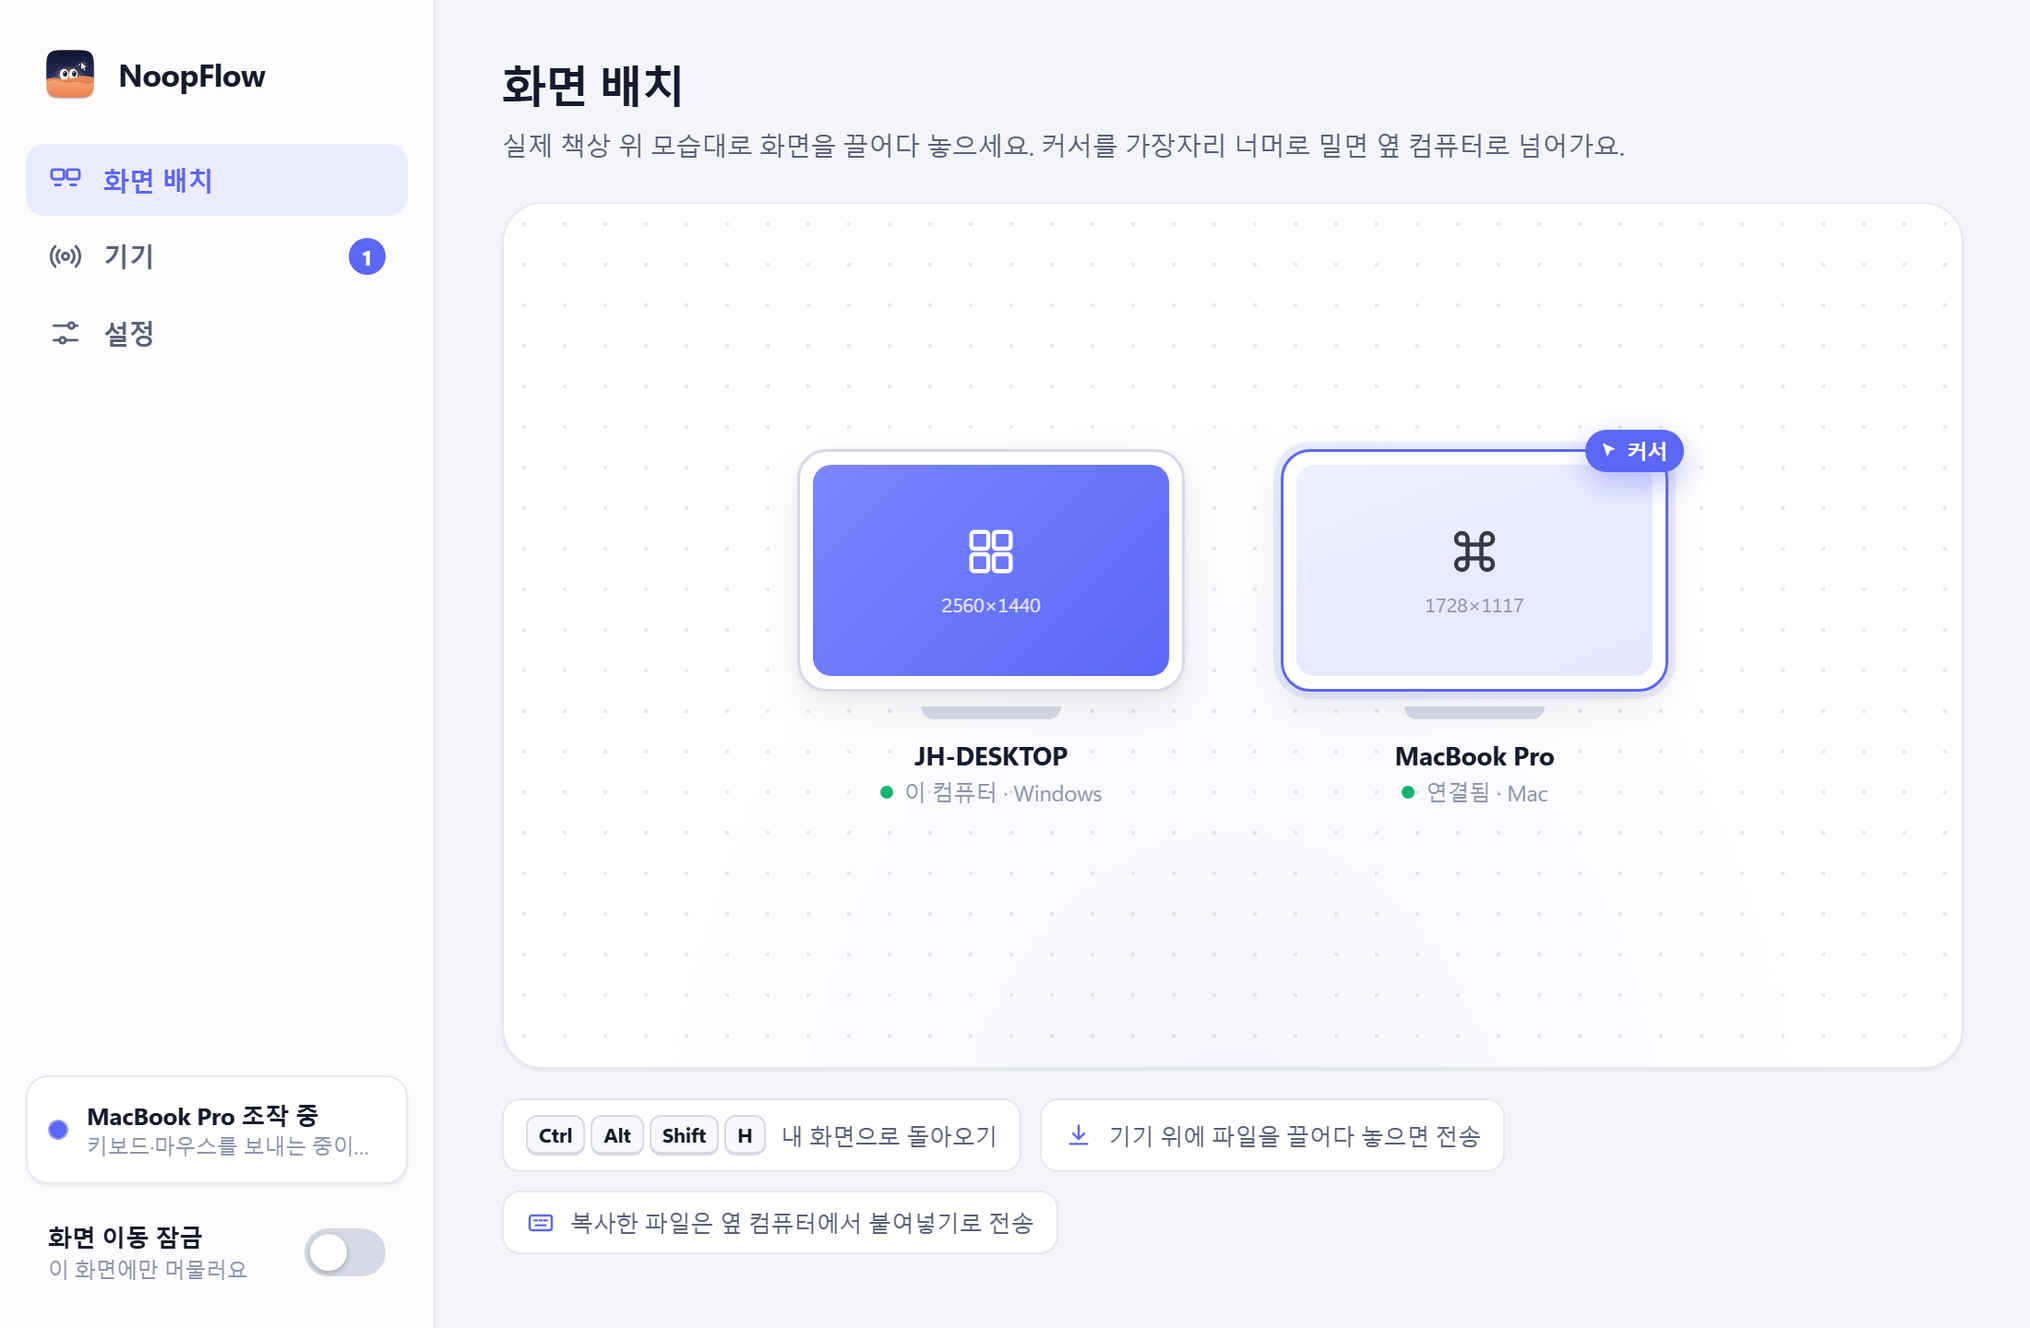
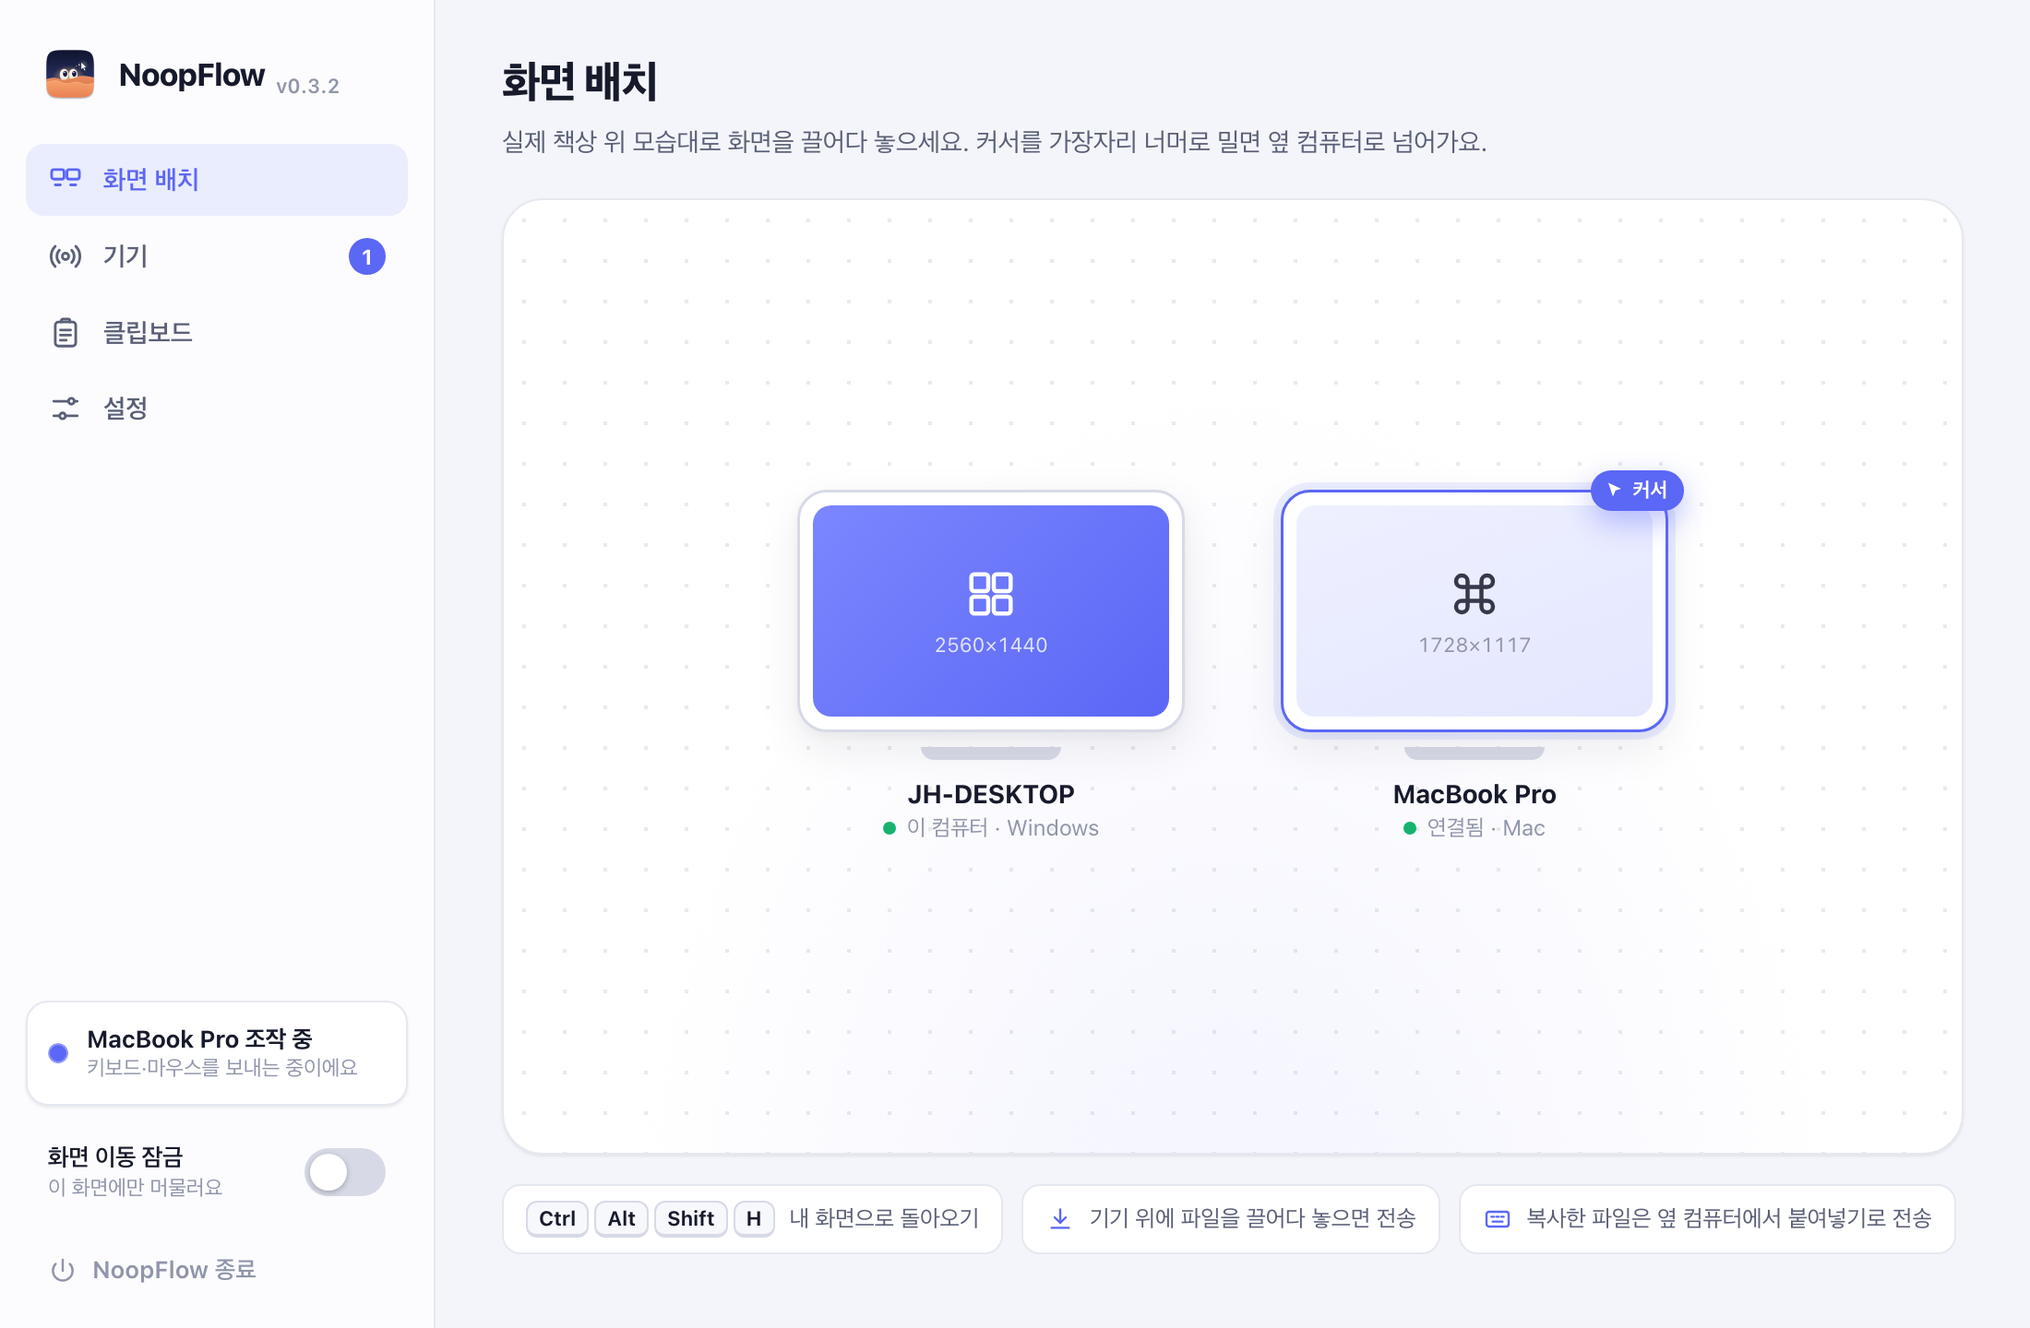
docs: refresh all feature screenshots and revamp README

diff --git a/README.md b/README.md
@@ -6,139 +6,175 @@
 
 <p align="center">
   키보드·마우스 하나로 Windows와 Mac(또는 Windows끼리)을 함께 쓰는 앱이에요.<br />
-  커서를 화면 가장자리 너머로 밀면 옆 컴퓨터로 넘어가요.
+  커서를 화면 가장자리 너머로 밀면 옆 컴퓨터로 자연스럽게 넘어가요.
 </p>
 
 <p align="center">
-  <a href="../../releases/latest"><b>다운로드</b></a> ·
-  <a href="https://github.com/sungomi/NooP">NooP</a> 패밀리
+  <a href="../../releases/latest"><b>최신 버전 다운로드</b></a> ·
+  <a href="#주요-기능">주요 기능</a> ·
+  <a href="#처음-연결하기">처음 연결하기</a> ·
+  <a href="#mac에서-처음-실행할-때">Mac 권한 설정</a> ·
+  <a href="https://github.com/sungomi/NooP">NooP 패밀리</a>
 </p>
 
 <p align="center">
-  <img src="docs/layout-dark.png" width="760" alt="화면 배치" />
+  <img src="docs/layout-dark.png" width="800" alt="NoopFlow 화면 배치 (다크 모드)" />
 </p>
 
-> **상태: v0.1 (초기 버전)**. Windows에서는 빌드하고 실행까지 확인했어요. Mac 버전은 아직 실제 Mac에서 돌려보지 않았어요.
+---
 
 ## 다운로드
 
-[Releases](../../releases) 페이지에서 받으면 돼요.
+[Releases](../../releases/latest) 페이지에서 OS에 맞는 설치 파일을 받으면 돼요.
 
-- Windows: `NoopFlow_x.y.z_x64-setup.exe` (또는 `.msi`)
-- Mac: `NoopFlow_x.y.z_universal.dmg` (Apple Silicon, Intel 모두 지원)
+| OS | 설치 파일 | 비고 |
+| :--- | :--- | :--- |
+| **Windows** | `NoopFlow_x.y.z_x64-setup.exe` (또는 `.msi`) | Windows 10 / 11 (x64) |
+| **macOS** | `NoopFlow_x.y.z_universal.dmg` | Apple Silicon · Intel 모두 지원 (macOS 11+) |
 
-새 버전을 내려면 버전 태그를 push하면 돼요. 그러면 GitHub Actions가 빌드해서 Releases에 자동으로 올려줘요. 평소 push에는 빌드가 돌지 않아요.
+> 두 컴퓨터의 NoopFlow 버전이 같아야 해요 (v0.2.0부터 통신 프로토콜이 바뀌었어요). 버전이 다르면 앱에서 바로 알려줘요.
 
-```bash
-git tag v0.1.1
-git push origin v0.1.1
-```
+---
 
-## 스크린샷
+## 주요 기능
+
+### 1. 화면 배치 & 부드러운 커서 이동
+
+실제 책상 위 모니터 배치대로 기기 카드를 끌어다 놓으면, 커서를 화면 가장자리 너머로 밀었을 때 옆 컴퓨터로 넘어가요.
+
+- **자유로운 배치**: 좌우·위아래 어느 방향이든 배치할 수 있고, 변경하면 연결된 기기에도 바로 동기화돼요.
+- **DPI 배율 보정 & 스무딩**: 125%·150%·Retina 등 화면 배율이 달라도 같은 속도로 부드럽게 움직여요.
+- **화면 이동 잠금 & 즉시 복귀**: 왼쪽 아래 **화면 이동 잠금** 스위치로 현재 화면에 고정하거나, 언제든 `Ctrl + Alt + Shift + H`로 내 화면으로 바로 돌아올 수 있어요.
+- **다크 / 라이트 모드**: 시스템 테마에 맞춰 자동으로 바뀌어요.
+
+| 다크 모드 | 라이트 모드 |
+| :---: | :---: |
+| <img src="docs/layout-dark.png" width="420" alt="화면 배치 다크 모드" /> | <img src="docs/layout-light.png" width="420" alt="화면 배치 라이트 모드" /> |
+
+---
+
+### 2. 자동 기기 검색 & 6자리 코드 암호화 페어링
+
+같은 네트워크(와이파이·LAN)에 켜져 있는 NoopFlow 기기를 자동으로 찾아요. 처음 한 번만 6자리 코드를 입력해 연결하면 이후에는 자동으로 다시 붙어요.
+
+- **종단간 암호화**: 모든 키보드·마우스·클립보드·파일 전송은 **Noise 프로토콜(X25519 + ChaCha20-Poly1305)** 로 암호화돼요.
+- **IP 직접 찾기**: 사내망 등으로 자동 검색이 막혀 있다면 IP 주소를 직접 입력해 찾을 수 있어요.
+- **중복 기기 자동 정리**: 재설치 등으로 같은 기기를 다시 페어링해도 예전 오프라인 항목이 남지 않고 기존 화면 위치를 그대로 이어받아요.
 
 | 기기 연결 | 6자리 코드 페어링 |
 | :---: | :---: |
-| <img src="docs/devices.png" width="400" /> | <img src="docs/pairing.png" width="400" /> |
-| **한/영 전환 설정 (Mac)** | **라이트 모드** |
-| <img src="docs/settings-mac.png" width="400" /> | <img src="docs/layout-light.png" width="400" /> |
+| <img src="docs/devices.png" width="420" alt="기기 연결 탭" /> | <img src="docs/pairing.png" width="420" alt="6자리 코드 페어링" /> |
 
-> 스크린샷은 샘플 데이터로 찍은 화면이에요. `scripts/screenshots.ps1`로 다시 찍을 수 있어요.
+---
 
-## 기능
+### 3. 클립보드 공유 & 파일 전송
 
-- **화면 배치**: 기기 카드를 끌어서 실제 책상 위 위치대로 놓아요 (좌우·위아래 모두 가능).
-- **자동 검색 + 6자리 코드 연결**: 같은 네트워크의 기기를 자동으로 찾아요. 처음 한 번만 코드를 입력하면 돼요.
-- **암호화**: 모든 입력은 Noise 프로토콜(X25519 + ChaCha20-Poly1305)로 암호화돼요. 한 번 연결한 기기만 접속할 수 있어요.
-- **한/영 전환 (Mac)**
-  - 오른쪽 ⌘을 한 번 누르면 한/영이 바뀌어요. ⌘C 같은 단축키는 그대로 써요.
-  - 맥 키보드로 윈도우를 조작할 때도 오른쪽 ⌘으로 윈도우의 한/영이 바뀌어요.
-  - 윈도우 키보드로 맥을 조작할 때는 한/영 키가 그대로 먹혀요.
-  - 영문 키보드라면 오른쪽 Alt로 전환하는 옵션도 있어요.
-- **키 배치 맞춤** (기본: 위치 그대로): 윈도우 키보드로 맥을 조작하면 Alt → ⌘, Windows 키 → ⌥, Ctrl → Ctrl로 바뀌어요. 맥 키보드로 윈도우를 조작하면 그 반대예요. 설정에서 'Ctrl ↔ ⌘'나 '바꾸지 않기'를 고를 수도 있어요.
-- **부드러운 마우스**: 화면 배율(125%·150% 등)이 달라도 같은 속도로 움직여요. 빠른 마우스의 이동 신호는 묶어서 보내요.
-- **클립보드 공유**: 텍스트와 이미지는 자동으로 공유돼요.
-- **클립보드 탭**: 컴퓨터마다 지금 복사된 내용(글자, 이미지 미리보기, 파일 목록)을 보여줘요. 다른 컴퓨터 것을 **이 컴퓨터로 가져오기**하거나(파일이면 다운로드), 내 것을 원하는 컴퓨터로 **보내기**할 수 있어요. 트레이나 메뉴 막대의 '클립보드…'에서도 열 수 있어요.
-- **미디어 키**: 볼륨과 재생 키도 조작 중인 컴퓨터로 넘어가요.
-- **파일 보내기**
-  - 화면 배치에서 기기 카드 위에 파일이나 폴더를 끌어다 놓으면 보내져요.
-  - 파일을 복사(Ctrl/⌘+C)하고 옆 컴퓨터로 넘어가서 붙여넣으면(Ctrl/⌘+V) 파일이 전송되고 폴더가 열려요.
-  - 받은 파일은 `다운로드/NoopFlow`에 저장돼요.
-- **단축키**: `Ctrl+Alt+Shift+H`를 누르면 내 화면으로 바로 돌아와요.
-- **트레이 / 메뉴 막대**
-  - Windows: 창의 X를 누르면 트레이로 최소화돼요. 설정의 '창을 닫을 때'에서 '종료'로 바꿀 수 있어요.
-  - Mac: 창을 닫으면 메뉴 막대에 남아요. 메뉴 막대 아이콘을 누르면 연결 상태, 화면 이동 잠금, 자동 실행, 설정, 종료 메뉴가 나와요.
-  - 완전히 끄려면 왼쪽 아래 **NoopFlow 종료** 버튼이나 트레이·메뉴 막대의 종료 메뉴를 눌러요.
-- **자동 실행**: 컴퓨터를 켜면 트레이에서 조용히 시작돼요. 처음 설치하면 켜져 있고, 설정이나 트레이 메뉴에서 끌 수 있어요.
+한쪽에서 복사한 글자와 이미지는 다른 컴퓨터에 자동으로 공유돼요. **클립보드** 탭에서는 연결된 각 컴퓨터에 지금 무엇이 복사돼 있는지 한눈에 보고 원할 때 가져오거나 보낼 수 있어요.
 
-> 두 컴퓨터의 NoopFlow 버전이 같아야 해요 (0.2.0부터 통신 방식이 바뀌었어요). 버전이 다르면 앱이 알려줘요.
+<p align="center">
+  <img src="docs/clipboard.png" width="760" alt="클립보드 탭" />
+</p>
+
+- **클립보드 미리보기 & 가져오기/보내기**: 텍스트, 이미지 썸네일, 파일 목록을 확인하고 버튼 한 번으로 가져오거나(파일은 다운로드) 다른 기기로 보낼 수 있어요.
+- **파일 드래그 앤 드롭**: 화면 배치 탭에서 기기 카드 위에 파일이나 폴더를 끌어다 놓으면 바로 전송돼요.
+- **복사 → 붙여넣기 파일 전송**: 파일을 복사(`Ctrl/⌘ + C`)한 뒤 옆 컴퓨터로 넘어가 붙여넣기(`Ctrl/⌘ + V`)하면 파일이 전송되고 저장 폴더가 자동으로 열려요.
+- **저장 위치**: 받은 파일은 기본으로 `다운로드/NoopFlow`에 저장돼요.
+
+---
+
+### 4. 한/영 전환 & OS 맞춤 키 배치 · 시스템 설정
+
+Windows와 Mac을 오갈 때 가장 헷갈리는 한/영 전환과 수식키(`Ctrl` / `Alt` / `⌘`)를 자연스럽게 맞춰줘요.
+
+| Mac 설정 (한/영 전환) | Windows 설정 (키 배치 · 마우스 · 클립보드) |
+| :---: | :---: |
+| <img src="docs/settings-mac.png" width="420" alt="Mac 한/영 전환 설정" /> | <img src="docs/settings-win.png" width="420" alt="Windows 설정 화면" /> |
+
+- **한/영 전환 (Mac ↔ Windows)**
+  - **Windows → Mac**: 윈도우 키보드의 `한/영` 키가 맥에서 그대로 먹혀요. (영문 키보드용 `오른쪽 Alt` 탭 옵션도 지원)
+  - **Mac → Windows / Mac 로컬**: `오른쪽 ⌘`을 한 번 누르면 한/영이 바뀌어요. `⌘C`, `⌘V` 같은 단축키는 그대로 쓸 수 있어요.
+- **OS 간 키 배치 맞춤 (기본: 위치 그대로)**
+  - Windows 키보드 → Mac: `Alt → ⌘`, `Windows → ⌥`, `Ctrl → Ctrl`
+  - Mac 키보드 → Windows: `⌘ → Alt`, `⌥ → Windows`, `Ctrl → Ctrl`
+  - 설정에서 `Ctrl ↔ ⌘` 맞바꾸기 또는 `바꾸지 않기`로 언제든 바꿀 수 있어요.
+- **특수키 지원**: `Esc`, `F1~F20`, 볼륨·재생 미디어 키, Mac 실제 Caps Lock 상태 전환까지 모두 넘어가요.
+- **트레이 / 메뉴 막대 & 자동 실행**
+  - 창을 닫아도 트레이(Windows) 또는 메뉴 막대(Mac)에서 조용히 계속 동작해요.
+  - 컴퓨터를 켤 때 자동으로 시작되도록 기본 설정돼 있으며, 설정이나 트레이 메뉴에서 켜고 끌 수 있어요.
+  - 완전히 종료하려면 사이드바 왼쪽 아래 **NoopFlow 종료** 버튼이나 트레이 메뉴의 **NoopFlow 종료**를 눌러요.
+
+---
 
 ## 처음 연결하기
 
 1. 두 컴퓨터 모두에서 NoopFlow를 실행해요.
-2. 한쪽의 **기기** 탭 → 주변에서 찾은 기기 → **연결**을 눌러요.
-3. 상대 화면에 뜬 6자리 코드를 입력해요.
-4. **화면 배치**에서 실제 위치대로 맞춰요.
+2. 한쪽의 **기기** 탭 → **주변에서 찾은 기기** → **연결**을 눌러요.
+3. 상대 화면에 뜬 **6자리 코드**를 입력해요.
+4. **화면 배치** 탭에서 실제 책상 위 위치대로 맞춰요.
 
-기기가 안 보이면 **IP로 찾기**에 상대 IP를 넣어 보세요.
-처음 실행할 때 Windows 방화벽 창이 뜨면 **허용**을 눌러야 해요.
-쓰는 포트는 TCP 47800, UDP 47801이에요. Deskflow(24800)와 같이 켜져 있어도 충돌하지 않아요.
+> 기기가 안 보이면 **IP로 찾기**에 상대 IP를 입력해 보세요.  
+> 처음 실행할 때 Windows 방화벽 창이 뜨면 **허용**을 눌러야 해요. 사용 포트는 **TCP 47800 / UDP 47801**이며, Deskflow(24800)와 함께 켜져 있어도 충돌하지 않아요.
+
+---
 
 ## Mac에서 처음 실행할 때
 
-서명이 안 된 개인용 앱이라서 두 가지를 한 번씩 해줘야 해요.
+개인 서명 앱이므로 처음 한 번만 아래 순서대로 권한을 허용해 주세요. 반드시 `.dmg`에서 **응용 프로그램(Applications) 폴더로 옮긴 뒤** 실행해야 권한이 유지돼요.
 
-1. **보안 경고 통과**: `NoopFlow.app`을 우클릭 → 열기 → 열기.
+<p align="center">
+  <img src="docs/mac-permission.png" width="760" alt="Mac 손쉬운 사용 권한 안내 배너" />
+</p>
+
+1. **보안 경고 통과**: `NoopFlow.app`을 우클릭 → **열기** → **열기**  
    그래도 막히면 터미널에서 `xattr -dr com.apple.quarantine /Applications/NoopFlow.app`을 실행해요.
-2. **손쉬운 사용 권한**: 앱 위쪽 배너의 **권한 설정 열기**를 눌러 NoopFlow를 켜요. 필요하면 **입력 모니터링**도 켜요.
-3. **다시 시작**: macOS는 앱을 다시 열어야 새 권한을 적용해요. 배너의 **다시 시작** 버튼을 누르면 돼요.
+2. **손쉬운 사용 권한**: 앱 상단 배너의 **권한 설정 열기**를 눌러 NoopFlow를 켜요. 필요하면 **입력 모니터링**도 함께 켜요.
+3. **다시 시작**: macOS는 앱을 다시 열어야 새 권한을 적용해요. 배너의 **다시 시작** 버튼을 누르면 끝나요.
 
-꼭 **Applications 폴더로 옮긴 뒤** 실행하세요. dmg 창에서 바로 열면 권한이 저장되지 않아요.
-0.3.0부터는 고정 인증서("NoopFlow Developer")로 서명해서, **업데이트해도 손쉬운 사용 권한이 그대로 유지돼요.** 0.2.x에서 0.3.0으로 넘어갈 때만 한 번, 목록에서 NoopFlow를 −로 지우고 다시 추가해 주세요.
+> v0.3.0부터 고정 인증서(`NoopFlow Developer`)로 서명해서, 이후 앱을 업데이트해도 손쉬운 사용 권한이 그대로 유지돼요.
 
-## 빌드
+---
 
-준비물: [Rust](https://rustup.rs), Tauri CLI(`cargo install tauri-cli --version "^2" --locked`)
+## 빌드 & 구조
+
+### 직접 빌드하기
+
+준비물: [Rust](https://rustup.rs), Tauri CLI (`cargo install tauri-cli --version "^2" --locked`)
 
 ```powershell
 # Windows: 개발 실행
 cd src-tauri; cargo tauri dev
 
-# Windows: 실행 파일만 (target\release\noopflow.exe)
-cd src-tauri; cargo tauri build --no-bundle
-
-# Windows: 설치 파일 (MSI/EXE)
+# Windows: 설치 파일 빌드 (MSI / EXE)
 cd src-tauri; cargo tauri build
 ```
 
 ```bash
-# Mac (Xcode 명령줄 도구 필요)
+# macOS (Xcode 명령줄 도구 필요)
 bash scripts/build-mac.sh
 ```
 
-`v`로 시작하는 태그를 push하거나 Actions 탭에서 직접 실행하면, `.github/workflows/build.yml`이 Windows 설치 파일과 Mac 유니버설 `.dmg`를 만들어요.
+`v`로 시작하는 버전 태그를 push하면 `.github/workflows/build.yml`이 Windows 설치 파일과 macOS 유니버설 `.dmg`를 빌드해 Releases에 자동으로 올려요.
 
-UI만 브라우저로 미리 보려면 `scripts/serve-ui.ps1`을 실행하고 http://localhost:5178 을 열어요. 이때는 샘플 데이터로 보여요.
+### 프로젝트 구조
 
-## 구조
-
-```
+```text
 core/            Rust 엔진 (UI와 독립)
-  engine.rs      컨트롤러/타깃 역할, 화면 전환, 한영 탭 감지
-  net.rs         Noise 암호화 연결, 페어링, UDP 자동 검색
-  platform/      Windows 훅·SendInput / macOS 이벤트탭·CGEventPost·TIS 입력 소스
-  keys.rs        Windows 스캔코드 ↔ USB HID ↔ Mac 키코드
-  clipboard.rs   클립보드 감시와 동기화
+  engine.rs      컨트롤러/타깃 역할, 화면 전환, 중복 기기 정리, 한/영 탭 감지
+  net.rs         Noise 암호화 연결, 6자리 코드 페어링, UDP 자동 검색
+  platform/      Windows 훅·SendInput / macOS CGEventTap·CGEventPost·TIS 입력 소스
+  keys.rs        Windows 스캔코드·VK ↔ USB HID ↔ Mac 키코드
+  clipboard.rs   클립보드 감시, 미리보기, 자동 동기화
   files.rs       파일 전송 (경로 정리, 이름 충돌 처리)
-src-tauri/       데스크톱 앱 셸 (트레이, 명령)
-ui/              화면 (HTML/CSS/JS)
+src-tauri/       데스크톱 앱 셸 (트레이, 메뉴 막대, 자동 실행)
+ui/              화면 (HTML / CSS / JS, 브라우저 미리보기 모드 지원)
 ```
 
-## 알려진 한계 (v0.1)
+---
 
-- **Windows 보안 화면**: UAC 창, 잠금 화면, 관리자 권한으로 실행된 창에는 입력이 안 들어가요. NoopFlow를 관리자 권한으로 실행하면 관리자 창은 해결돼요.
-- **Mac이 조작하는 쪽일 때**: 맥 커서가 화면 가장자리에 멈춘 채로 보여요.
-- **화면 경계를 넘는 드래그앤드롭**: 아직 안 돼요. 카드에 끌어다 놓기나 복사→붙여넣기로 보내야 해요.
-- **Mac 코드 검증 범위**: Windows에서 타입 검사까지만 했어요. 실제 Mac에서는 아직 실행해 보지 않았어요.
+## 알려진 한계
+
+- **Windows 보안 화면**: UAC 창, 잠금 화면, 관리자 권한으로 실행된 창에는 일반 권한에서 입력이 들어가지 않아요. 관리자 창을 조작해야 한다면 NoopFlow를 관리자 권한으로 실행해 주세요.
+- **화면 경계를 넘는 드래그 앤 드롭**: 아직 지원하지 않아요. 화면 배치의 기기 카드에 파일을 끌어다 놓거나, 복사(`Ctrl/⌘ + C`) 후 옆 컴퓨터에서 붙여넣기(`Ctrl/⌘ + V`)로 보내세요.
 
 ---
 
